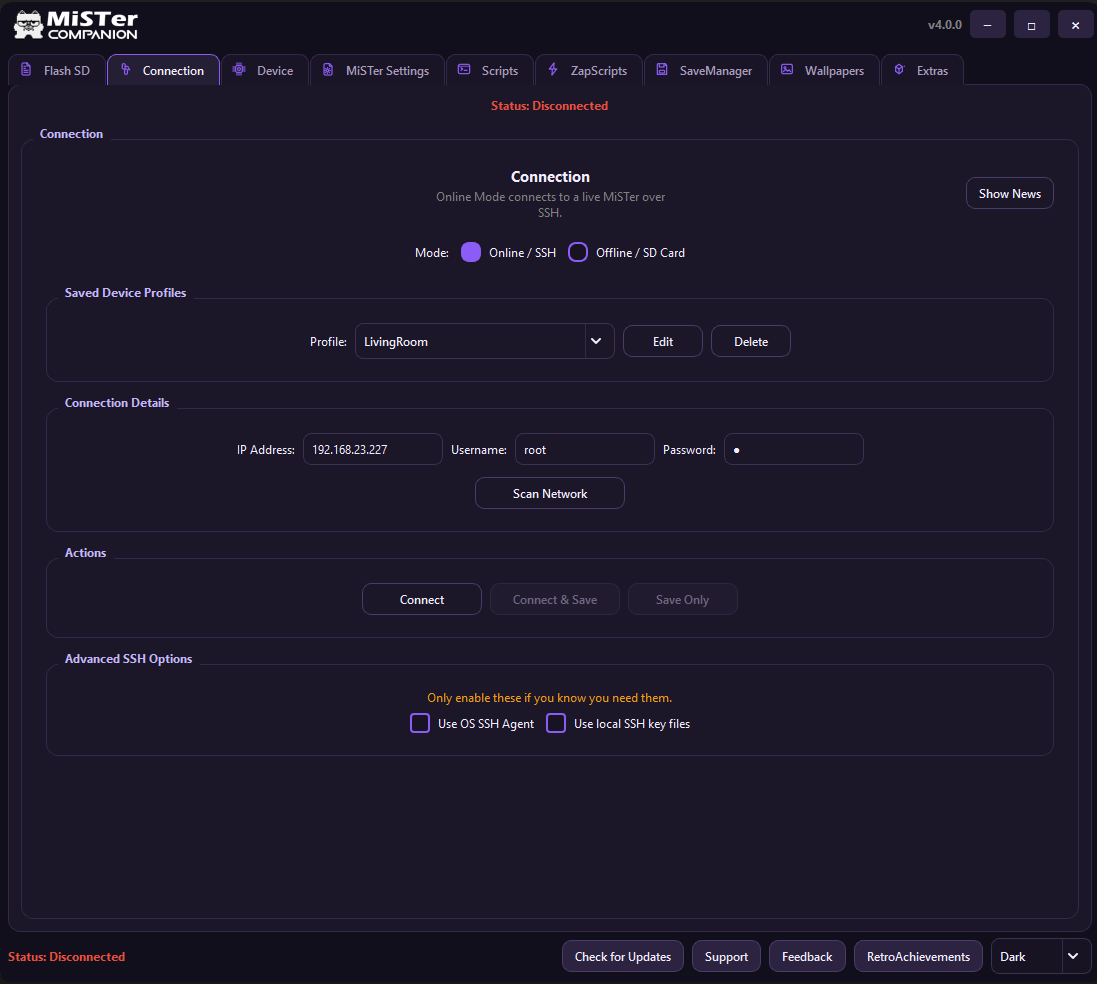
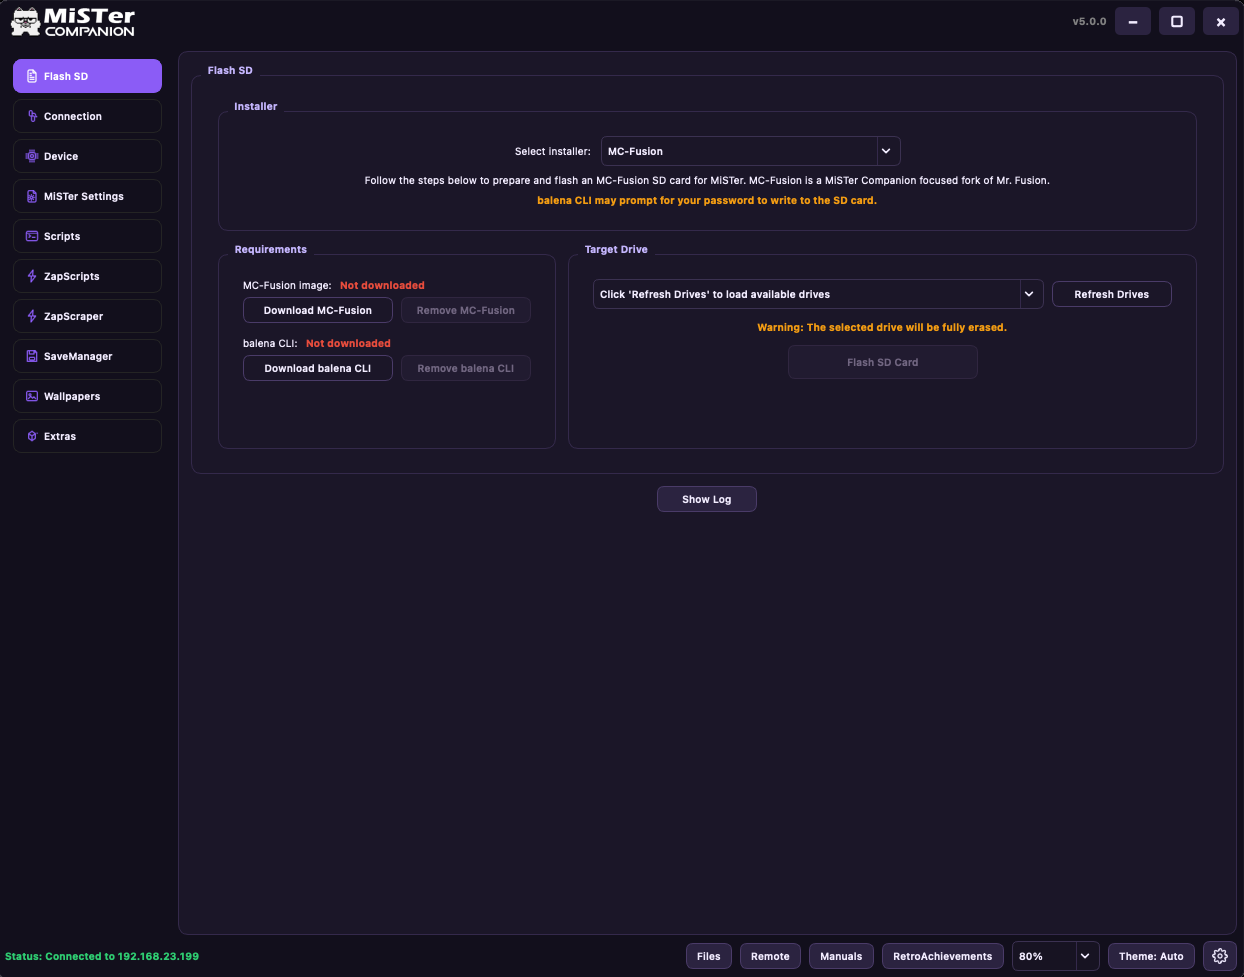
Updated readme

diff --git a/readme.md b/readme.md
@@ -12,7 +12,49 @@ It provides a simple interface for common maintenance tasks without needing to u
 
 ## Features
 
-MiSTer Companion uses a tabbed interface to organize functionality.
+MiSTer Companion organizes functionality through a clean interface with selectable menu styles.
+
+The app supports both a modern **Side menu** layout and the classic **Tabs** layout. You can switch between them from the app settings.
+
+### Interface and Customization
+
+- New Side menu layout
+- Classic Tabs layout remains available
+- Switch between Side menu and Tabs from the app settings
+- Custom theme support through simple JSON files
+- Built-in Theme Picker for selecting built-in and custom themes
+- Built-in Auto, Light and Dark themes remain available
+- Custom themes can define background, surface, accent, text and logo preference
+- Custom themes include author metadata for attribution
+- Improved theme handling across icons, buttons, menus and dialogs
+
+### File Browser
+
+- Browse files on your MiSTer over SFTP
+- Open the File Browser from the bottom bar using the Files button
+- Browse `/media/fat`
+- Browse `/media/usb0` when USB storage is connected
+- Upload files and folders
+- Drag and drop files or folders from your computer into the File Browser
+- Download files and folders from the MiSTer
+- Copy, paste and move files or folders
+- Rename files or folders
+- Delete files or folders with confirmation
+- Overwrite warnings for upload, download, copy, move and rename actions
+- Sortable file list columns
+- Resizable file list columns
+- Remembered window size, column widths and sorting
+- Built-in output and progress log for file operations
+- Available when connected to a MiSTer in Online Mode
+
+### Performance and Responsiveness
+
+- Many threading and speed improvements across the app
+- Faster tab and menu switching
+- Improved connected-mode responsiveness
+- Reduced interface blocking during background tasks
+- Cleaner handling of SSH-based actions
+- Improved refresh behavior for status checks and connected features
 
 ### Flash SD
 